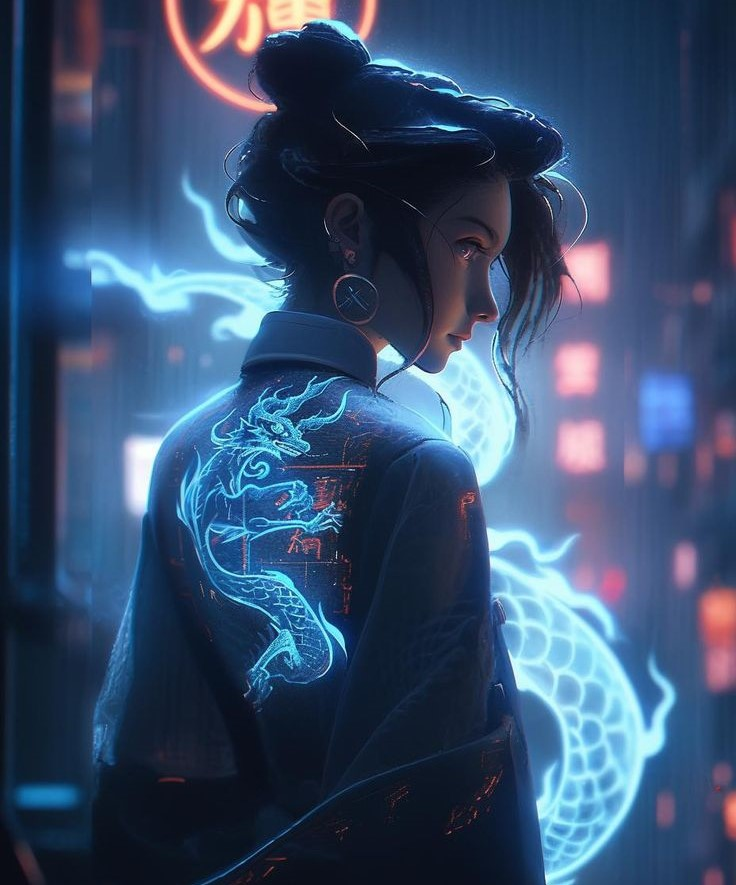
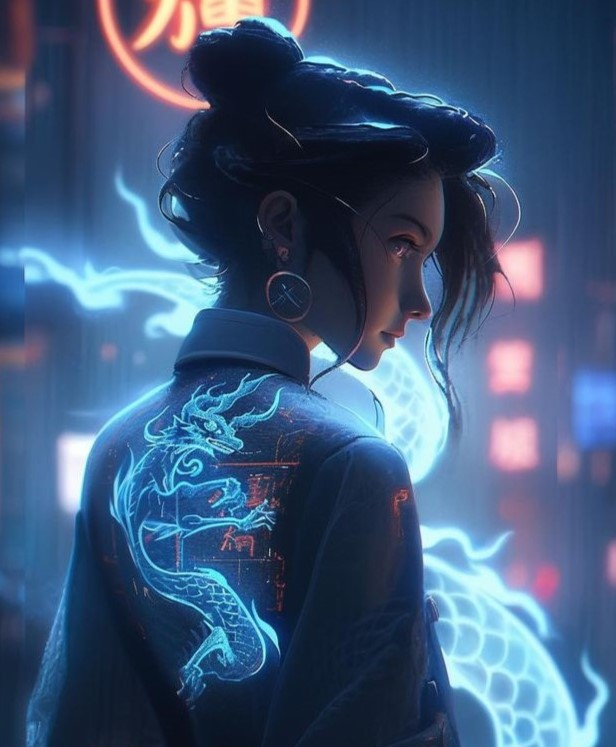
change-pic

diff --git a/src/assets/abstract/_login.scss b/src/assets/abstract/_login.scss
@@ -3,10 +3,10 @@
     color: white;
     width: 100%;
 }
-img {
-    width: 100%;
-    height: auto;
-}
+// img {
+//     width: 100%;
+//     height: 130vh;
+// }
 .color-text {
     color: #7f5af0;
 }
@@ -25,6 +25,25 @@ button {
 .content-text {
     font-size: 20px;
 }
+.pic {
+    position: relative;
+    width: 100%;
+    height: 100vh; /* or any desired height */
+    overflow: hidden;
+  }
+  
+  .pic-auth {
+    position: absolute;
+    top: 0;
+    left: 0;
+    width: 100%;
+    height: 90%;
+    object-fit: cover; /* Ensures the image covers the container while maintaining its aspect ratio */
+    object-position: center; /* Centers the image within the container */
+    display: block; /* Ensures no extra space around the image */
+    border-radius: 50px;
+  }
+  
 
 @media (max-width: 767px) {
     .auth-card {

diff --git a/src/app/core/modules/auth/components/register/register.component.html b/src/app/core/modules/auth/components/register/register.component.html
@@ -6,7 +6,7 @@
                 <div class="logo pt-3 ps-4">
                     <h2><span class="color-text">Games</span>X.</h2>
                 </div>
-                <div class="auth-card py-5 px-5 mt-2 ms-5 ps-5">
+                <div class="auth-card py-5 px-5 mt-4 ms-5 ps-5">
                     <div class="content-text">
                         <h2 class="mb-2">Sign up</h2>
                         <p >If you have an account <br>
@@ -96,7 +96,7 @@
             </div>
             <div class="col-md-6">
                 <div class="pic">
-                    <img src="../../../../../../assets/images/authPic.jpeg" class=" py-5 pic-auth">
+                    <img src="../../../../../../assets/images/authphoto.jpeg" class=" my-5 pe-2 pic-auth">
                 </div>
             </div>
         </div>

diff --git a/src/app/core/modules/auth/components/login/login.component.html b/src/app/core/modules/auth/components/login/login.component.html
@@ -37,7 +37,7 @@
             </div>
             <div class="col-md-6 col-12 d-none d-md-block">
                 <div class="pic">
-                    <img src="../../../../../../assets/images/authPic.jpeg" class="py-5 pic-auth">
+                    <img src="../../../../../../assets/images/authphoto.jpeg" class=" my-5 pe-2 pic-auth">
                 </div>
             </div>
         </div>

diff --git a/src/app/core/modules/auth/components/forget-password/forget-password.component.html b/src/app/core/modules/auth/components/forget-password/forget-password.component.html
@@ -31,7 +31,7 @@
             </div>
             <div class="col-md-6">
                 <div class="pic">
-                    <img src="../../../../../../assets/images/authPic.jpeg" class=" py-5 pic-auth">
+                    <img src="../../../../../../assets/images/authphoto.jpeg" class=" my-5 pe-2 pic-auth">
                 </div>
             </div>
         </div>

diff --git a/src/app/core/modules/auth/components/verify-account/verify-account.component.html b/src/app/core/modules/auth/components/verify-account/verify-account.component.html
@@ -40,7 +40,7 @@
             </div>
             <div class="col-md-6">
                 <div class="pic">
-                    <img src="../../../../../../assets/images/authPic.jpeg" class=" py-5 pic-auth">
+                    <img src="../../../../../../assets/images/authphoto.jpeg" class=" my-5 pe-2 pic-auth">
                 </div>
             </div>
         </div>

diff --git a/src/app/core/modules/auth/components/reset-password/reset-password.component.html b/src/app/core/modules/auth/components/reset-password/reset-password.component.html
@@ -59,7 +59,7 @@
             </div>
             <div class="col-md-6">
                 <div class="pic">
-                    <img src="../../../../../../assets/images/authPic.jpeg" class=" py-5 pic-auth">
+                  <img src="../../../../../../assets/images/authphoto.jpeg" class=" my-5 pe-2 pic-auth">
                 </div>
             </div>
         </div>
